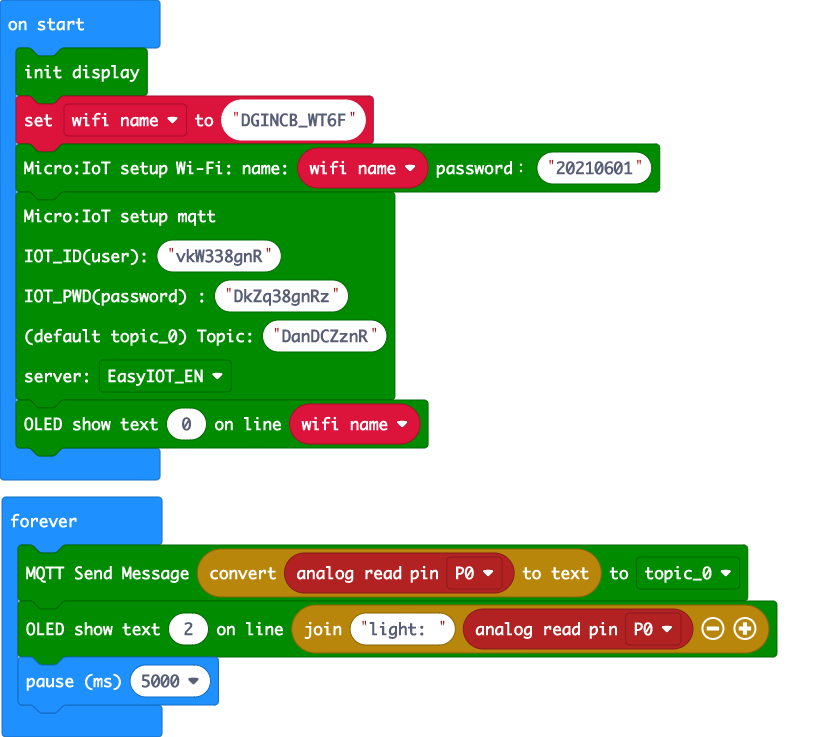
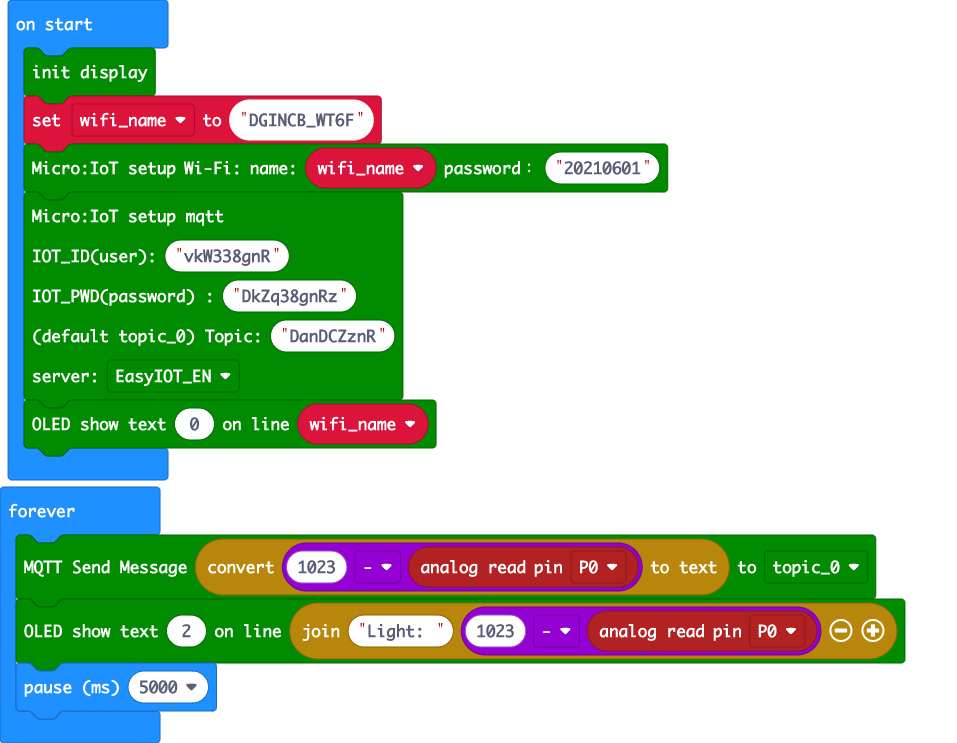
Convert analog value to text in MQTT send message

Changed region(s): [[0.0, 0.0, 0.965, 1.0]]

diff --git a/main.ts b/main.ts
@@ -9,7 +9,7 @@ microIoT.SERVERS.English
 )
 microIoT.microIoT_showUserText(0, wifi_name)
 basic.forever(function () {
-    microIoT.microIoT_SendMessage(convertToText(pins.analogReadPin(AnalogPin.P0)), microIoT.TOPIC.topic_0)
-    microIoT.microIoT_showUserText(2, "light: " + pins.analogReadPin(AnalogPin.P0))
+    microIoT.microIoT_SendMessage(convertToText(1023 - pins.analogReadPin(AnalogPin.P0)), microIoT.TOPIC.topic_0)
+    microIoT.microIoT_showUserText(2, "Light: " + (1023 - pins.analogReadPin(AnalogPin.P0)))
     basic.pause(5000)
 })
